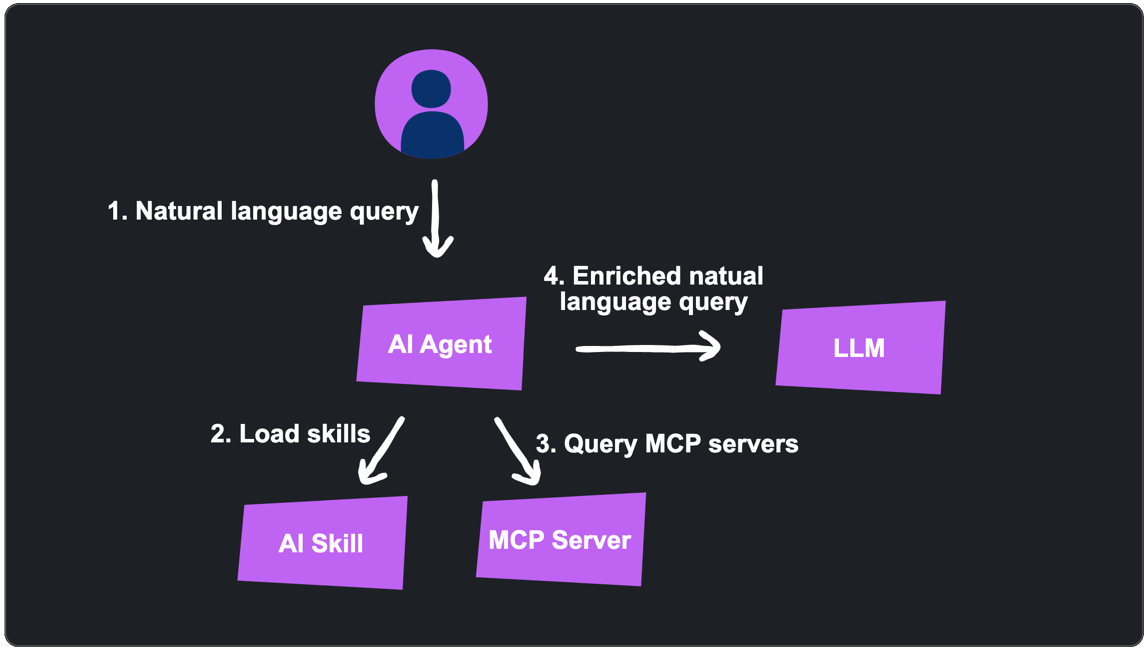
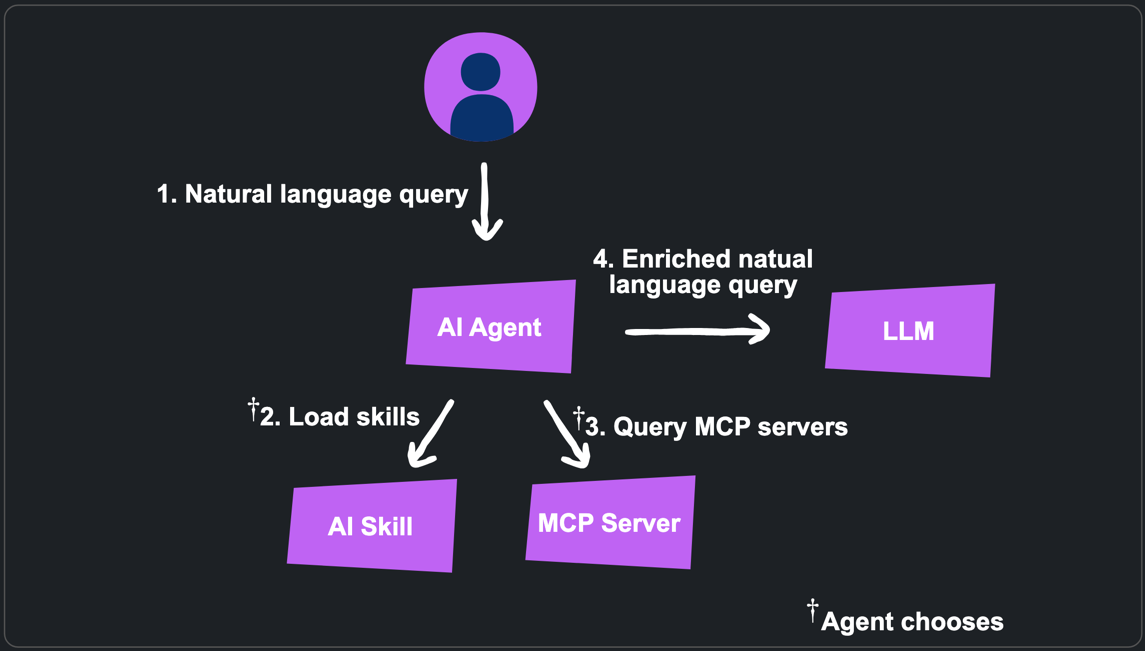
v2.11.16: Refine MCP speaker notes for precision and clarity
- Presentation.html (Slide 13): Change 'AI tools' to 'AI agents' in MCP universal connector description
- Presentation.html (Slide 12b): Split speaker note into two sentences; add note on agent discretion over MCP/skill invocation
- images/mcp-and-skills-flow.png: Updated diagram
- images/forge-dev-with-ai-patterns.svg: Minor SVG updates
- changelog/2.11.16-changelog.md: Add changelog entry for v2.11.16
- Metadata.md: Bump version to 2.11.16

Changed region(s): [[0.1834, 0.3687, 0.8865, 0.9217], [0.0, 0.0, 1.0, 1.0]]

diff --git a/Presentation.html b/Presentation.html
@@ -432,7 +432,8 @@
 	<h3>MCP Servers and Skills</h3>
 	<img src="images/mcp-and-skills-flow.png" alt="Diagram showing an AI agent loading skills and querying MCP servers before sending an enriched query to the LLM" style="max-height: 55vh; display: block; margin: 0 auto;" />
 	<aside class="notes">
-		<p>Before we look at MCP Servers and Agent Skills individually, here's the big picture. The agent sits in the middle: it loads skills from local files to get instructions and workflow knowledge, queries MCP servers to get live data and capabilities from external systems, then sends an enriched prompt to the LLM. Neither MCP nor skills alone is sufficient. Together they give the agent both the knowledge of how to work and the tools to act.</p>
+		<p>"Before we look at MCP Servers and Agent Skills individually, here's the big picture. The agent sits in the middle: it loads skills from local files to get instructions and workflow knowledge, queries MCP servers to get live data and capabilities from external systems, then sends an enriched prompt to the LLM."</p>
+    <p>"It's important to note that the AI agent chooses when to use MCP servers and skills."</p>
 		<hr/>
 		<ul>
 			<li>The diagram shows the flow: skills load into context, MCP servers are queried, the enriched prompt goes to the LLM</li>
@@ -446,7 +447,7 @@
 	<h3>MCP connects any agent to any tool</h3>
 	<img src="images/mcp-illustration.svg" alt="Diagram showing an MCP Client box inside an AI Agent box, with arrows from the MCP Client to three MCP Server boxes: Forge MCP Server, Atlassian Rovo MCP Server, and GitHub MCP Server." style="max-height: 65vh; width: auto; display: block; margin: 0 auto;" />
 	<aside class="notes">
-		<p>MCP is the universal connector for AI tools, like USB-C for devices. Before MCP, every AI integration was custom-built. MCP means implement the client once, implement the server once, and any combination works. Three primitives: Tools (actions the agent can execute), Resources (data the agent can read), and Prompts (reusable instruction templates).</p>
+		<p>MCP is the universal connector for AI agents, like USB-C for devices. Before MCP, every AI integration was custom-built.</p>
 		<hr/>
 		<ul>
 			<li>Created at Anthropic, released November 25, 2024; donated to Linux Foundation December 2025</li>

diff --git a/changelog/2.11.16-changelog.md b/changelog/2.11.16-changelog.md
@@ -1,0 +1,25 @@
+# Changelog: 2.11.16
+
+**Date:** 15-Jun-2026, 11:43 AEST  
+**Previous version:** 2.11.15  
+**Change type:** PATCH
+
+## Summary
+
+Minor speaker note refinements in Presentation.html: corrected "AI tools" to "AI agents" in the Slide 13 MCP description for precision, and updated the Slide 12b speaker note to split into two shorter spoken sentences and add a note about agent discretion. Supporting images updated.
+
+## Changes
+
+### Presentation
+
+- **Presentation.html (Slide 13 speaker notes)**: Changed "MCP is the universal connector for AI tools" to "MCP is the universal connector for AI agents" for terminological accuracy; trimmed the note to two focused sentences.
+- **Presentation.html (Slide 12b speaker notes)**: Reformatted spoken text into two separate paragraphs; added sentence noting that agents choose when to invoke MCP servers and skills.
+
+### Images
+
+- **images/mcp-and-skills-flow.png**: Updated diagram image.
+- **images/forge-dev-with-ai-patterns.svg**: Minor SVG content updates.
+
+## Validation
+
+`bash scripts/ValidateModel.sh` — see below

diff --git a/Metadata.md b/Metadata.md
@@ -1,4 +1,4 @@
 # Metadata
 
-**Version:** 2.11.15
-**Date:** 15-Jun-2026, 11:25 AEST
+**Version:** 2.11.16
+**Date:** 15-Jun-2026, 11:43 AEST
